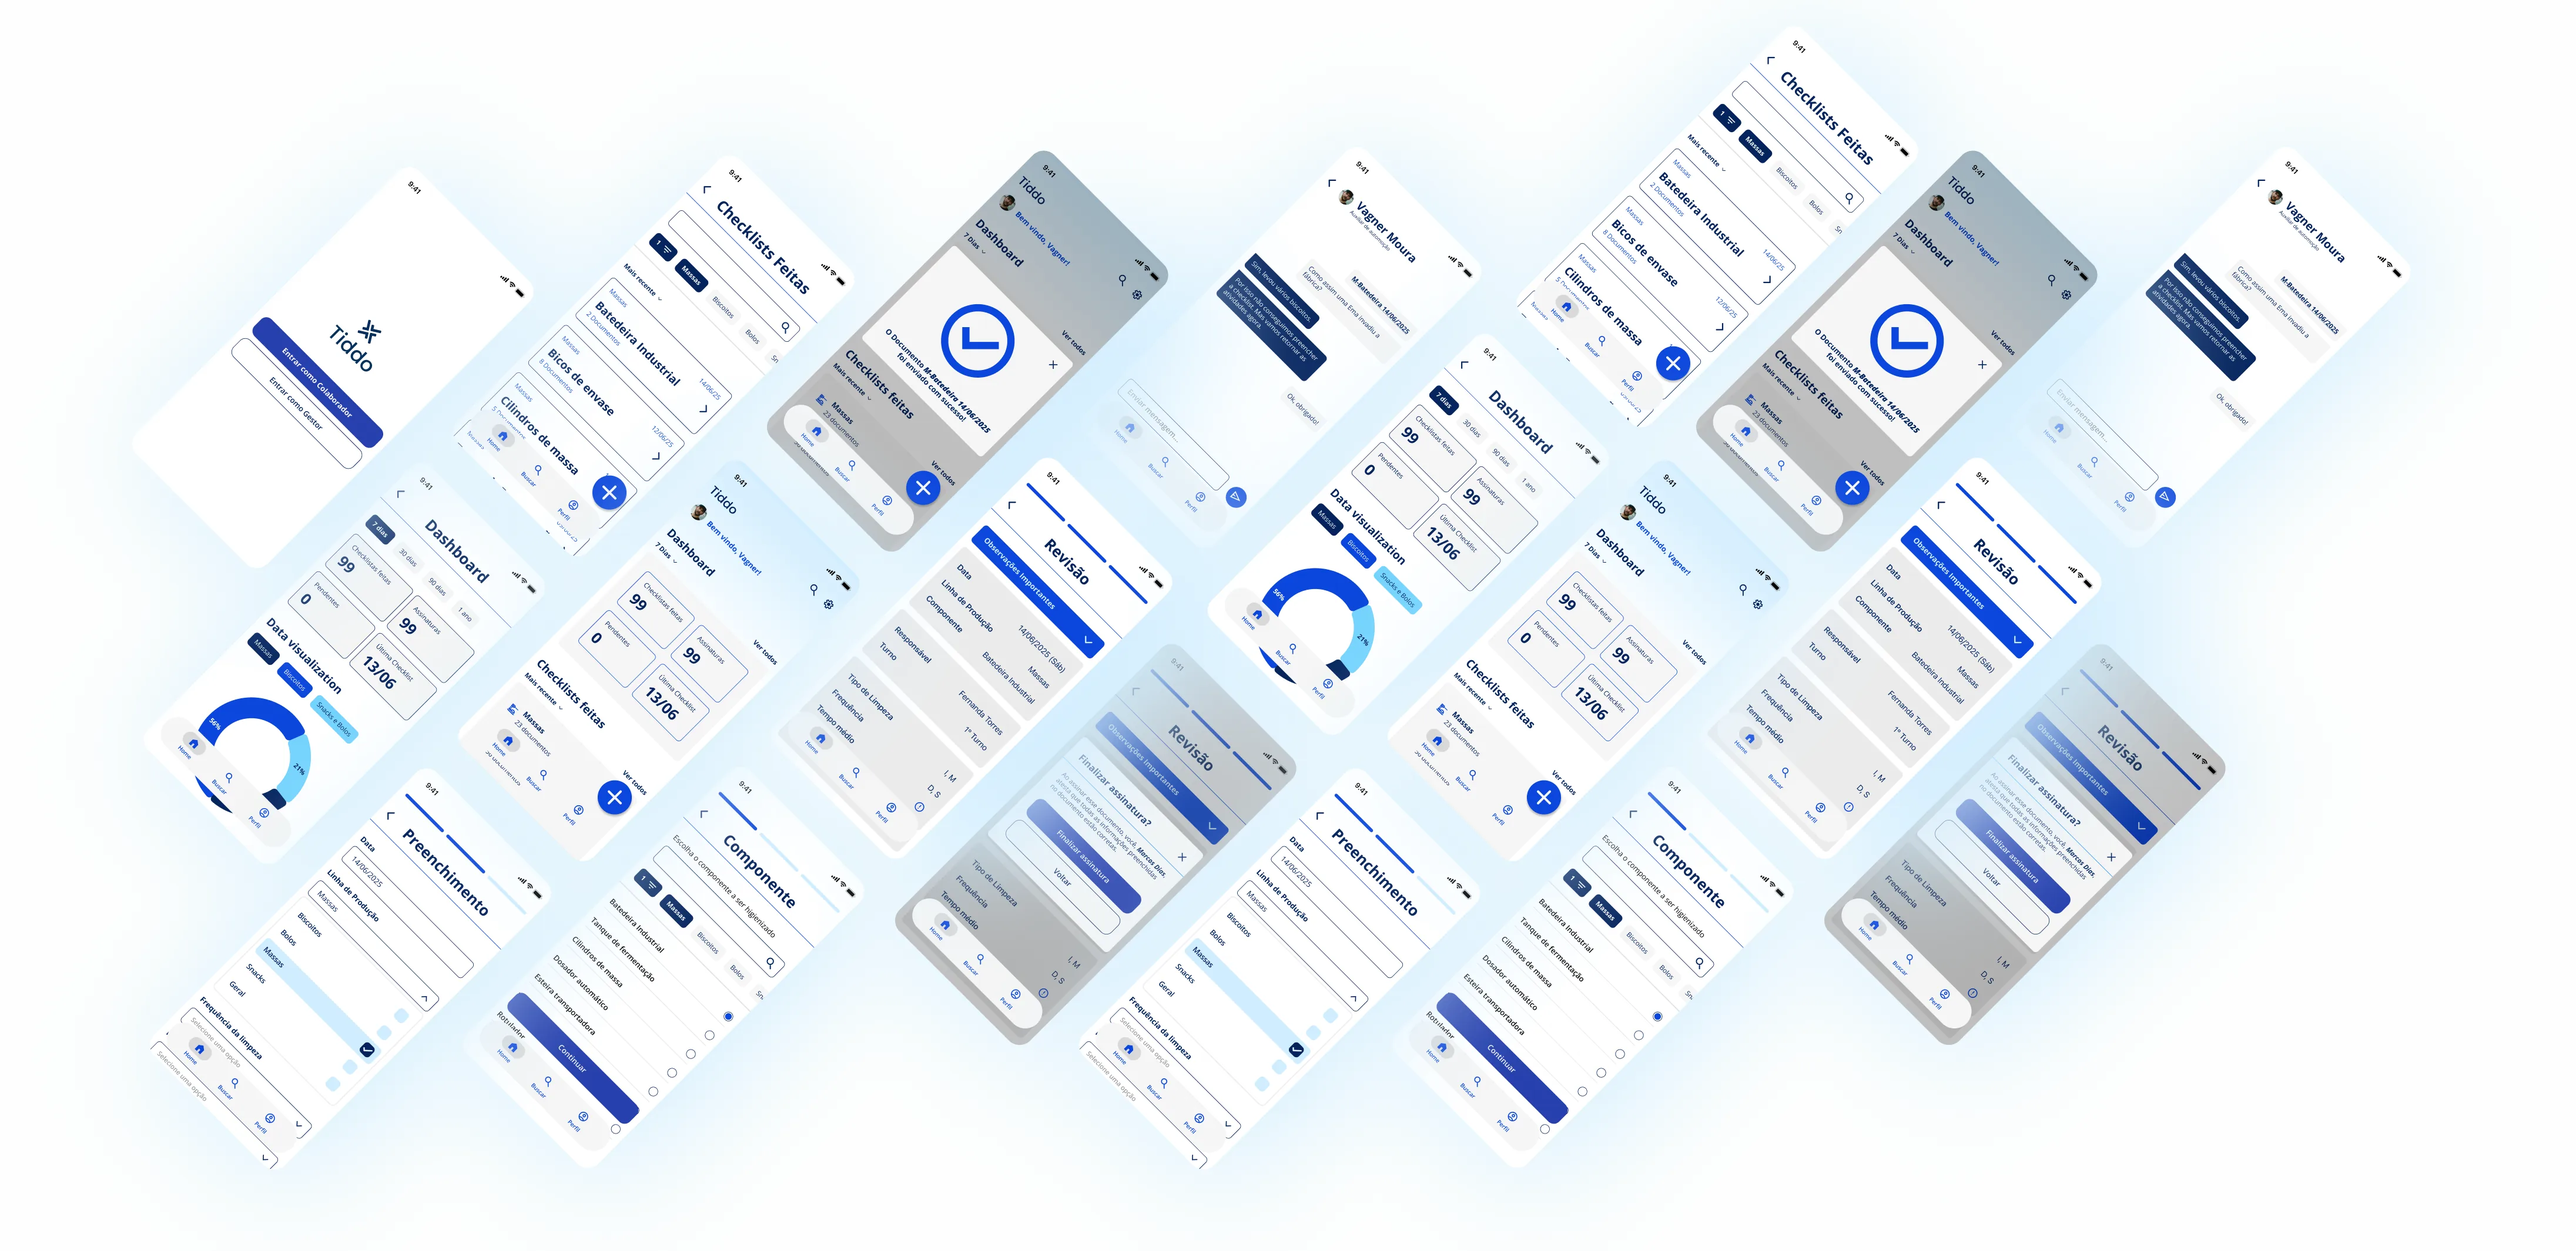
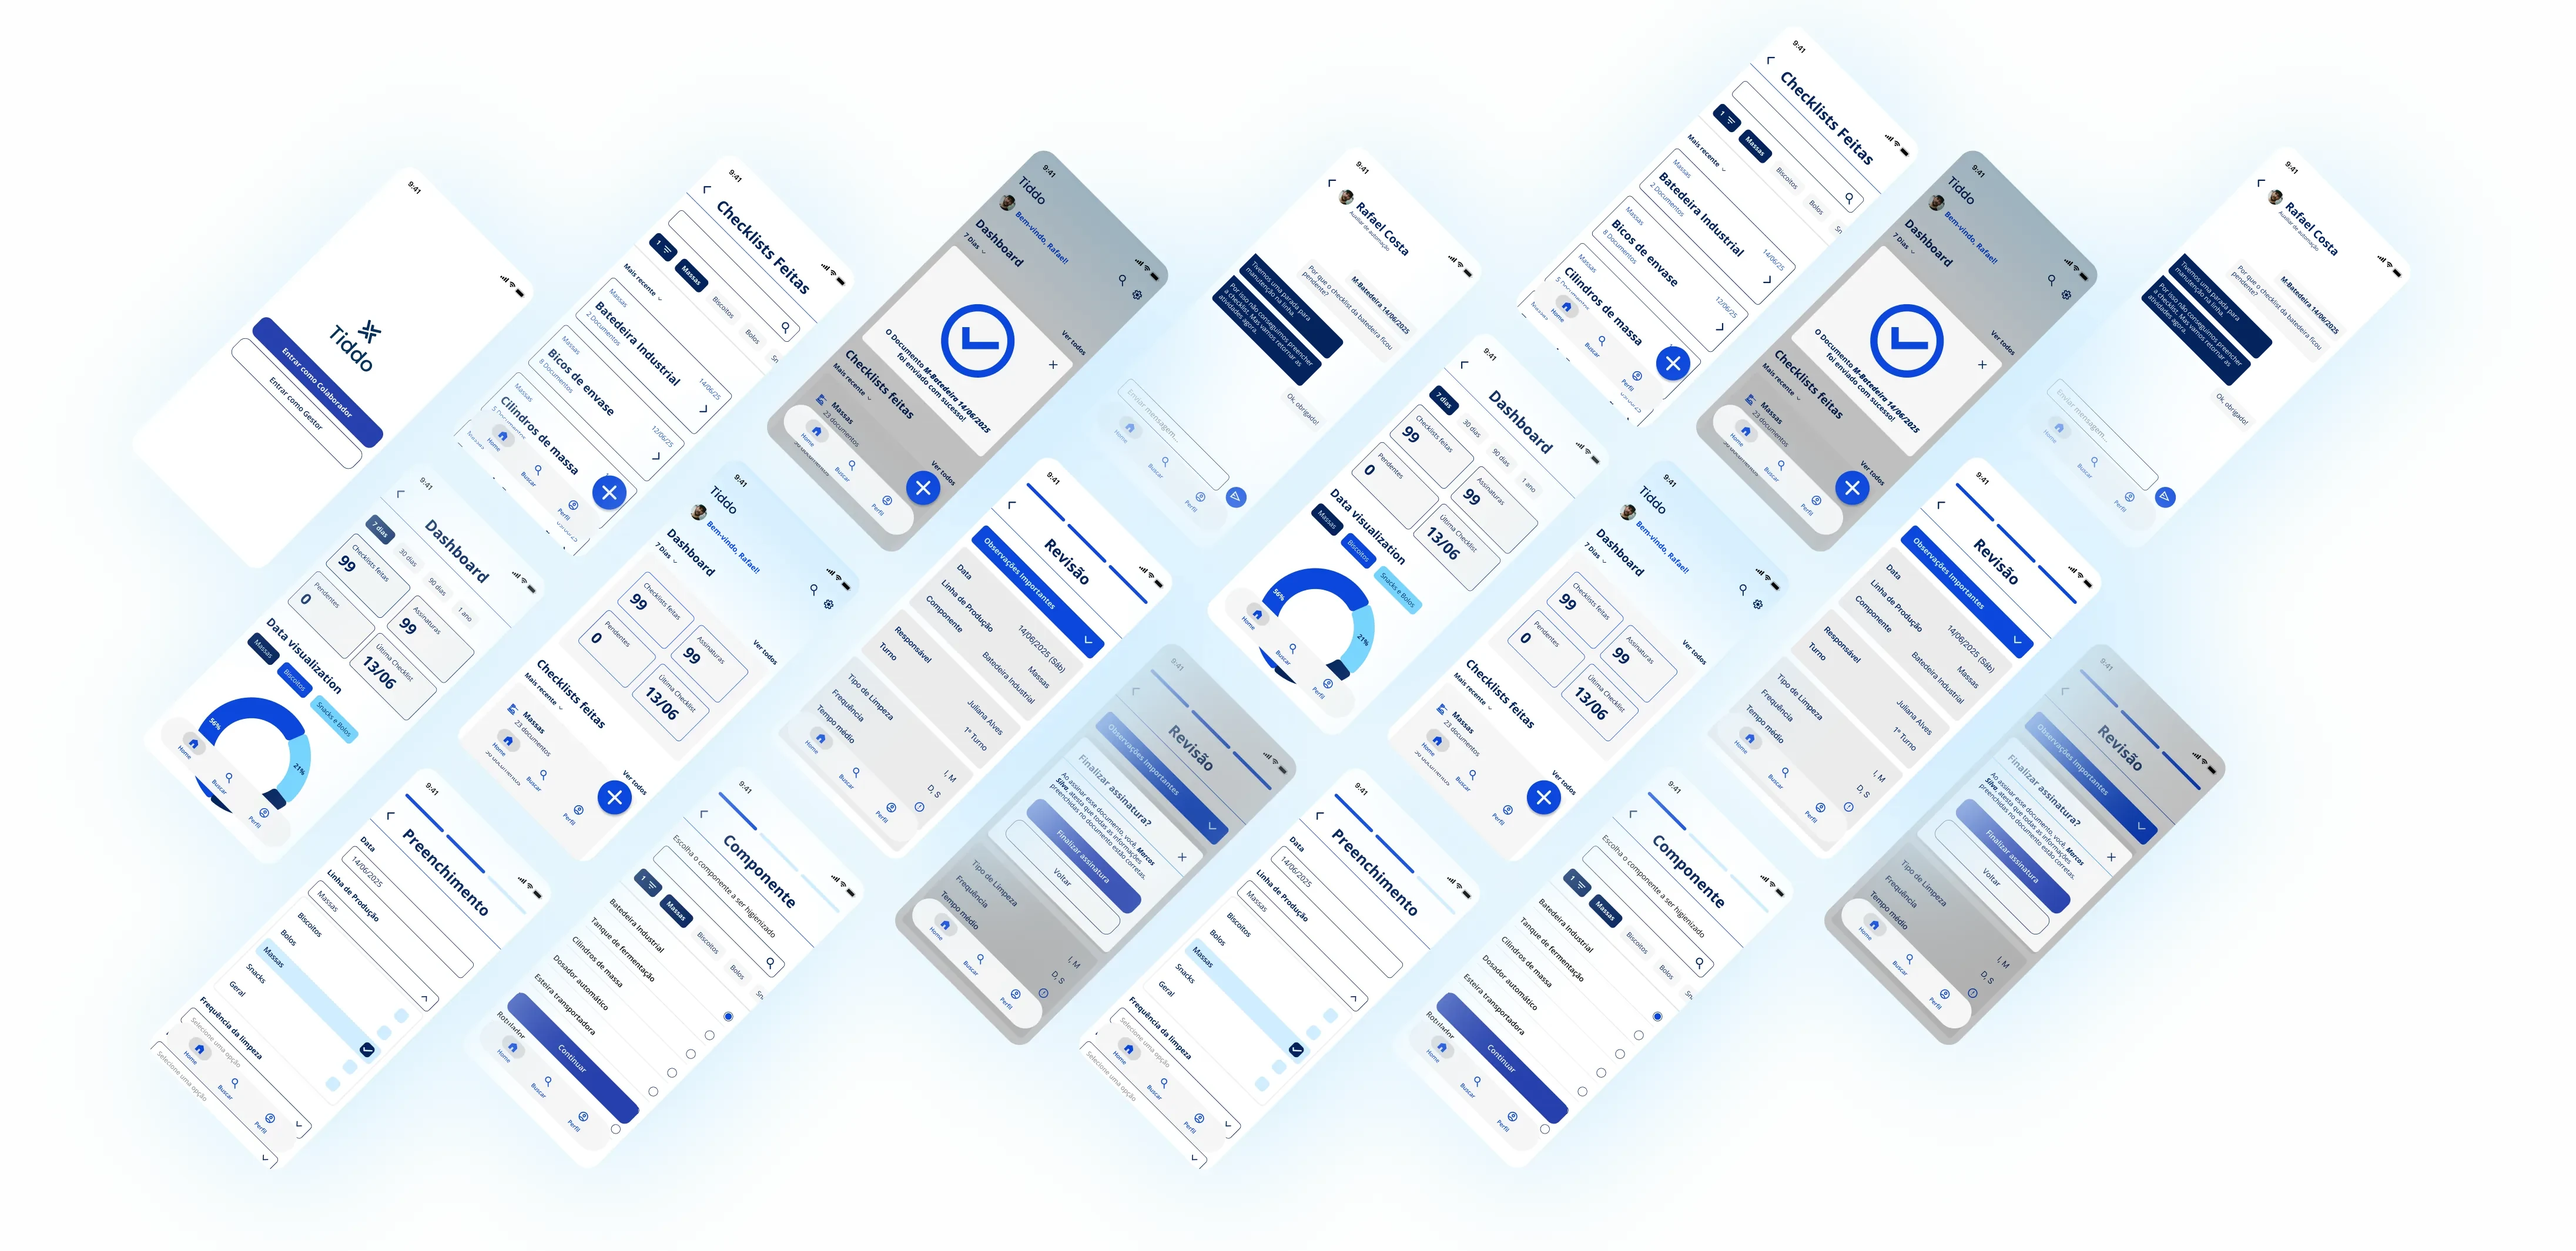
Tiddo: textos da nova apresentação
- Textos atualizados conforme a nova versão no Figma: contexto (2º lugar no
  O-Hacka-Tá-On), descoberta e o que cada etapa revelou, decisões de produto,
  projeto piloto em Maracanaú, validação (treinamento e testes) e metas dos
  impactos. Os cards de decisão crescem como no Figma para caber o texto novo.
- Nas telas do carrossel de protótipo, os textos que mudaram (conversa do
  supervisor, nomes, "Checklists feitas", "Bem-vindo, Rafael!", assinatura)
  foram trocados direto na faixa, sem mexer no resto da imagem.
- Corrige "Garantiir" no canvas.

Claude-Session: https://claude.ai/code/session_01DSpZ7MVgSkQvqPVGGdUg2h

diff --git a/src/pages/cases/tiddo/Tiddo.tsx b/src/pages/cases/tiddo/Tiddo.tsx
@@ -135,7 +135,7 @@ function Connectors({ lines, color }: { lines: [number, number, number][]; color
 }
 
 /**
- * Menu suspenso aberto com etapas (Processo de Design / Validação e melhorias).
+ * Menu suspenso aberto com etapas (O que cada etapa revelou / Validação e melhorias).
  * Ao aparecer na tela, abre como um menu de verdade: a seta gira, a lista desce, os itens entram
  * um a um e o item escolhido é marcado (ver .dropdown no CSS).
  */
@@ -193,6 +193,7 @@ const DECISIONS = [
   {
     x: 240.8,
     y: 5964,
+    h: 373,
     icons: [
       { src: iconeSemPapel, w: 58, h: 61, bg: '#ffc2c2' },
       { src: iconeDispositivos, w: 55, h: 44, bg: '#c4ffd4' },
@@ -201,13 +202,15 @@ const DECISIONS = [
     textW: 348,
     text: (
       <>
-        Substituição das pranchetas e cadernos por uma <strong>interface dinâmica</strong> e baseada em etapas.
+        Preenchimento guiado em etapas: primeiro a linha de produção, depois o componente. O excesso de informação fazia
+        as pessoas se perderem no documento.
       </>
     ),
   },
   {
     x: 779.3,
     y: 5964,
+    h: 373,
     icons: [
       { src: iconeNavegacao, w: 61, h: 61, bg: '#ffc2c2' },
       { src: iconeTabela, w: 65, h: 65, bg: '#c4ffd4' },
@@ -216,13 +219,15 @@ const DECISIONS = [
     textW: 360,
     text: (
       <>
-        Padronização de dados e termos para <strong>reduzir a carga cognitiva</strong> durante o uso.
+        Termos e campos padronizados (listas, validações, frequência diária, semanal, quinzenal ou mensal) para reduzir a
+        carga cognitiva de quem preenche.
       </>
     ),
   },
   {
     x: 240.8,
-    y: 6381.9,
+    y: 6396.9,
+    h: 313,
     icons: [
       { src: iconeContrato, w: 72, h: 72, bg: '#ffc2c2' },
       { src: iconeSeguranca, w: 72, h: 72, bg: '#c4ffd4' },
@@ -231,13 +236,15 @@ const DECISIONS = [
     textW: 348,
     text: (
       <>
-        Implementação de coleta de assinaturas de forma <strong>segura e digital</strong> para garantir validade legal.
+        Assinatura digital, com revisão antes do envio: o supervisor atesta a limpeza, e o documento precisa valer em
+        auditoria.
       </>
     ),
   },
   {
     x: 779.3,
     y: 6381.8,
+    h: 343,
     icons: [
       { src: iconeOperador, w: 72, h: 72, bg: '#d0f0fe' },
       { src: iconeGrafico, w: 67, h: 67, bg: '#d0f0fe' },
@@ -246,8 +253,8 @@ const DECISIONS = [
     textW: 360,
     text: (
       <>
-        Criação de <strong>visões distintas</strong>: uma focada na execução ágil para o operador e outra com dashboards
-        para os supervisores.
+        Visões distintas: execução ágil para o colaborador e dashboards para o supervisor, porque cada um tem um papel
+        diferente no fluxo.
       </>
     ),
   },
@@ -355,10 +362,10 @@ function PhotoCarousel() {
 }
 
 const IMPACTS = [
-  { value: '50%', x: 80.9, y: 14250.8, w: 176.3, textX: 275.2, textW: 134.3, text: <>De <strong>redução</strong> do tempo de preenchimento</> },
-  { value: '100%', x: 513, y: 14250.8, w: 226.7, textX: 757.7, textW: 166.5, text: <>De <strong>rastreabilidade</strong> dos registros</> },
-  { value: '90%', x: 512.3, y: 14376.8, w: 177.8, textX: 757.5, textW: 166.5, text: <>De <strong>redução nos erros</strong> de preenchimento</> },
-  { value: '90%', x: 1028.3, y: 14248.5, w: 177.8, textX: 1216.5, textW: 147.8, text: <>De <strong>redução no volume</strong> anual de uso de papel</> },
+  { value: '50%', x: 80.9, y: 14250.8, w: 176.3, textX: 275.2, textW: 134.3, text: <>Meta de redução do tempo de preenchimento</> },
+  { value: '100%', x: 513, y: 14250.8, w: 226.7, textX: 757.7, textW: 166.5, text: <>Meta de rastreabilidade dos registros</> },
+  { value: '90%', x: 512.3, y: 14376.8, w: 177.8, textX: 757.5, textW: 166.5, text: <>Meta de redução dos erros</> },
+  { value: '90%', x: 1028.3, y: 14248.5, w: 177.8, textX: 1216.5, textW: 147.8, text: <>Meta de redução do uso de papel por ano</> },
 ]
 
 /* ——————————————————————————————————————————————————————————————————————— */
@@ -403,12 +410,11 @@ export default function Tiddo() {
           <Chip x={78} y={1082.3} w={229.5}>
             <h2 id="tiddo-contexto">Contexto</h2>
           </Chip>
-          <T x={403.5} y={1216.5} w={633} fs={24} lh={38.4} color={NAVY} data-reveal="up">
-            O Tiddo é uma aplicação desenvolvida e premiada durante o 2° Hackathon promovido pela fábrica de alimentos M.
-            Dias Branco. O desafio era <strong className={s.semibold}>digitalizar o preenchimento de checklists de limpeza</strong>{' '}
-            industrial. O processo manual levava cerca de 1 hora por tarefa, custava R$ 19.000 anuais em papel e era
-            suscetível a erros, o que comprometia a rastreabilidade e elevava os riscos de falhas em auditorias,
-            contaminações e multas.
+          <T x={382} y={1216} w={676} fs={24} lh={38.4} color={NAVY} data-reveal="up">
+            No 2º O-Hacka-Tá-On da M. Dias Branco, nossa equipe desenhou o Tiddo, um app para digitalizar o checklist de
+            limpeza das linhas de produção, e <strong>ficou em 2º lugar</strong>. No projeto piloto, em Maracanaú,
+            descobrimos que a empresa já tinha uma solução interna. O desafio passou a ser outro: avaliar, adaptar e ajudar
+            essa solução a ser usada.
           </T>
           <AbsImg
             x={1124}
@@ -425,23 +431,23 @@ export default function Tiddo() {
         <section aria-labelledby="tiddo-entendimento">
           <TitleBand id="tiddo-entendimento" band={[121.5, 1723.5, 1394.3]} side="right" text={[191.3, 1058, 'entendimento do problema']} />
           <T x={395.3} y={1919.3} w={650.3} fs={24} lh={36} color={NAVY} center data-reveal="up">
-            Para <strong>compreender o cenário real</strong> e as dificuldades da operação, realizamos uma imersão profunda
-            focada na fase de Descoberta. Nossa investigação incluiu:
+            Mais do que um formulário longo, a descoberta mostrou um fluxo entre pessoas: quem limpa, quem preenche e o
+            supervisor que atesta. Cada etapa revelou uma parte disso:
           </T>
           <SideNote x={104.3} y={2223} w={204} right color={NAVY}>
             Para vivenciar o ambiente e as condições de trabalho.
           </SideNote>
           <SideNote x={70.5} y={2403} w={237.8} right color={NAVY}>
-            Para organizar as hipóteses iniciais e guiar as perguntas da nossa pesquisa.
+            Organizou as perguntas para a área: quem preenche, quem revisa, como assinar, que certificações atender.
           </SideNote>
           <SideNote x={76.5} y={2584.5} w={231.8} right color={NAVY}>
-            Identificando a sobrecarga e dificuldades associado à responsabilidade dos documentos.
+            Até 1h30 de preenchimento, vários checklists no mesmo dia e ~R$ 19 mil/ano com a produção de cadernos.
           </SideNote>
           <SideNote x={1129.5} y={2320.5} w={190.5} color={NAVY}>
-            Para alinhar os requisitos de negócio.
+            Quem preenche não é quem limpa, e quem atesta a limpeza é o supervisor, com assinatura.
           </SideNote>
           <SideNote x={1129.5} y={2501.3} w={228.8} color={NAVY}>
-            Para visualizar visualmente os gargalos operacionais de ponta a ponta.
+            Mostrou o deslocamento até a máquina para achar o responsável e o retrabalho quando o checklist volta.
           </SideNote>
           <Connectors
             color={BLUE}
@@ -456,7 +462,7 @@ export default function Tiddo() {
           <Dropdown
             x={403.5}
             y={2087.3}
-            title="Processo de Design"
+            title="O que cada etapa revelou"
             selected={1}
             items={[
               'Visitas de campo às instalações',
@@ -563,7 +569,7 @@ export default function Tiddo() {
             incluíram:
           </T>
           {DECISIONS.map((d) => (
-            <Abs key={d.x + '-' + d.y} x={d.x} y={d.y} w={420} h={313} className={s.decision} data-reveal="up">
+            <Abs key={d.x + '-' + d.y} x={d.x} y={d.y} w={420} h={d.h} className={s.decision} data-reveal="up">
               {d.icons.map((icon, i) => (
                 <span key={i} className={s.decisionIcon} style={{ left: u(30 + i * 216), backgroundColor: icon.bg }}>
                   <img src={icon.src} alt="" width={icon.w} height={icon.h} style={{ width: u(icon.w), height: u(icon.h) }} />
@@ -652,29 +658,33 @@ export default function Tiddo() {
             alt="Dois iPhones com as telas de checklists feitas e de revisão do Tiddo"
           data-reveal="up" data-parallax="view" style={{ '--parallax': u(30) } as CSSProperties} />
           <T x={78} y={10939.5} w={432} fs={27} lh={43.2} weight={700} color={WHITE} data-reveal="up">
-            O sucesso chamou a atenção da indústria parceira, e o conceito evoluiu para um projeto piloto.
+            O 2º lugar abriu a porta da fábrica. No projeto piloto, em Maracanaú, descobrimos que a nossa solução não era a
+            única.
           </T>
           <Abs x={829.5} y={11959.5} w={713.3} h={171.8} className={s.band} style={bleed(829.5, 713.3, 'right')} data-reveal="wipe-r" />
-          <T x={918} y={11988.8} w={444} fs={18} lh={28.8} color={DARK} right data-reveal="up">
-            Descobrimos que a empresa já possuía uma iniciativa interna de digitalização operando em outra unidade, mas a
-            fábrica local <strong>necessitava de adaptações</strong> estruturais e de usabilidade.
+          <T x={918} y={11973} w={444} fs={18} lh={28.8} color={DARK} right data-reveal="up">
+            A empresa já tinha uma solução interna, da unidade de Jaboatão dos Guararapes, ainda sem previsão de chegar a
+            Maracanaú. Fizemos reuniões com a equipe de Jaboatão para entender o funcionamento e analisar o que Maracanaú
+            precisava.
           </T>
           <T x={404.3} y={12291.8} w={632.3} fs={24} lh={38.4} color={WHITE} center data-reveal="up">
             Nosso <strong>desafio como designers evoluiu</strong>: integrar nossa visão para avaliar, refinar e testar a
             solução real que estava sendo desenvolvida.
           </T>
           <SideNote x={105} y={12636.8} w={210.8} right color={WHITE}>
-            Utilizamos heurísticas de Nielsen, categorizando ocorrências para priorizar correções.
+            Avaliamos a solução com as heurísticas de Nielsen: 12 ocorrências, cada uma com gravidade e recomendação, para
+            priorizar correções.
           </SideNote>
           <SideNote x={92.3} y={12816.8} w={223.5} right color={WHITE}>
-            Conduzimos testes presenciais e preenchimentos piloto com os usuários.
+            Treinamento presencial com key users do turno da manhã, com um preenchimento piloto mediado.
           </SideNote>
           <SideNote x={84} y={12998.3} w={231.8} right color={WHITE}>
-            Estabelecemos um canal aberto via Microsoft Teams para capturar dúvidas e oportunidades de melhoria com os
-            usuários finais.
+            Abrimos um canal no Microsoft Teams para dúvidas e melhorias. Os pontos do canal e do treinamento entraram na
+            nova proposta de interface.
           </SideNote>
           <SideNote x={1137} y={12734.3} w={211.5} color={WHITE}>
-            Cadastramos mais de 300 novos componentes de maquinário no banco de dados.
+            Cadastramos mais de 300 novos componentes da linha de Snacks, ampliando as informações para criar novos
+            checklists.
           </SideNote>
           <SideNote x={1137} y={12915} w={228.8} color={WHITE}>
             Desenvolvemos uma &quot;Cartilha de Uso&quot; visual e objetiva para facilitar o onboarding e garantir a adoção da
@@ -699,7 +709,7 @@ export default function Tiddo() {
             items={[
               'Avaliação Heurística',
               'Revisão da arquitetura da informação',
-              'Testes de usabilidade',
+              'Treinamento e testes',
               'Documentação de apoio',
               'Coleta de feedback contínuo',
             ]}
@@ -716,7 +726,7 @@ export default function Tiddo() {
 
         {/* —— Impactos —— */}
         <section aria-labelledby="tiddo-impactos">
-          <TitleBand id="tiddo-impactos" band={[401.3, 13894.5, 1170.8]} side="right" text={[543.8, 354, 'impactos']} />
+          <TitleBand id="tiddo-impactos" band={[401.3, 13894.5, 1170.8]} side="right" text={[543, 354, 'Impactos']} />
           <Chip x={76.5} y={14142} w={333}>
             <h3>Eficiência</h3>
           </Chip>

diff --git a/src/pages/cases/tiddo/canvas.ts b/src/pages/cases/tiddo/canvas.ts
@@ -38,7 +38,7 @@ export const notes: Note[] = [
   { x: 872.2, y: 3967.4, color: '#fbfed0', text: 'Planos de higienização configurados de acordo com equipamento.' },
   { x: 1144.3, y: 3997.7, color: '#d0f0fe', text: 'Processo simplificado e unificado que reduz o tempo da tarefa' },
   { x: 1222.4, y: 3997.7, color: '#d0f0fe', text: 'Formato sustentável e com espaço para melhorias' },
-  { x: 794, y: 4048.9, color: '#fbfed0', text: 'Garantiir a familiaridade visual com cores já familiares' },
+  { x: 794, y: 4048.9, color: '#fbfed0', text: 'Garantir a familiaridade visual com cores já familiares' },
   { x: 872.2, y: 4048.9, color: '#fbfed0', text: 'Soluções de design que simplificam e agilizam o processo.' },
   { x: 1144.3, y: 4079.8, color: '#d0f0fe', text: 'Erros são diminuídos e sua correção pode ser simplificada.' },
   { x: 1222.4, y: 4079.8, color: '#d0f0fe', text: 'Redução de estresse dos colaboradores envolvidos' },
